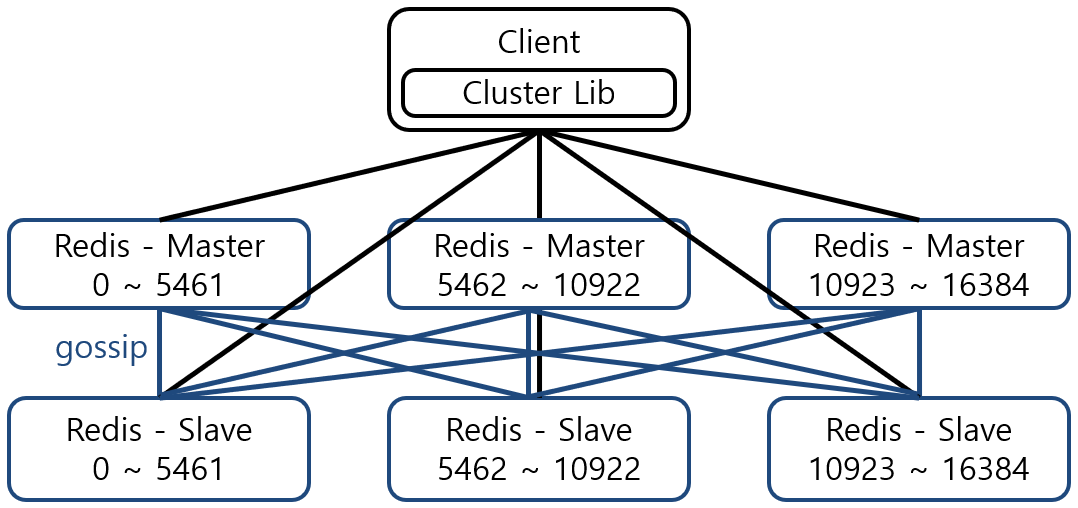
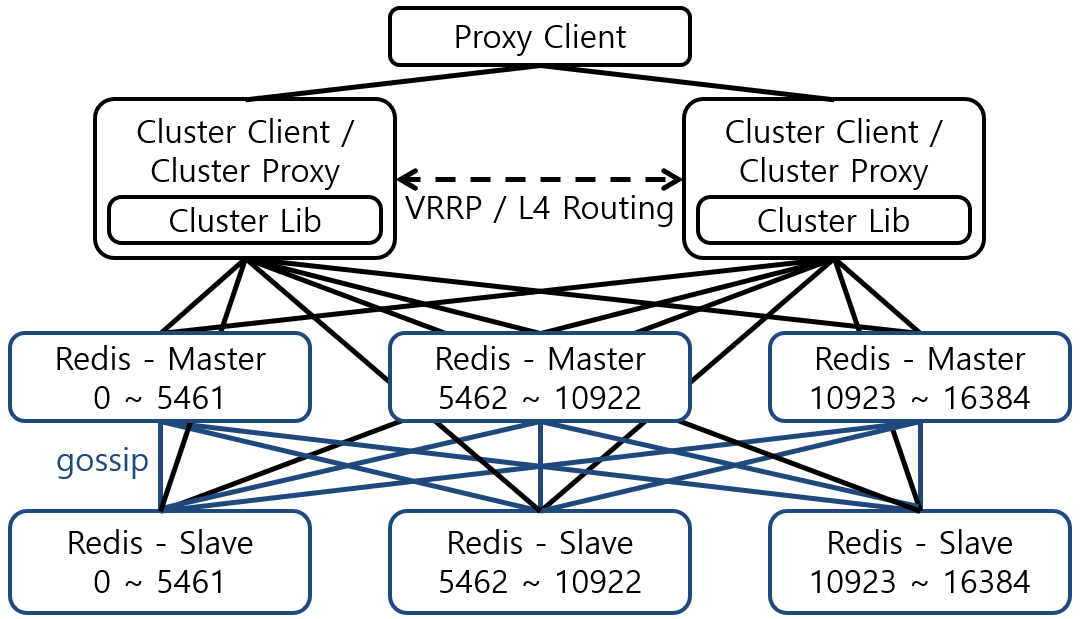
Update redis cluster

Changed region(s): [[0.0, 0.0, 1.0, 1.0]]

diff --git a/_docs/theory_analysis/Redis_Master_Slave_Cluster.md b/_docs/theory_analysis/Redis_Master_Slave_Cluster.md
@@ -1,33 +1,60 @@
 ---
-title: Redis Master-Slave, Cluster
+title: Redis Master-slave, Cluster
 category: Theory, Analysis
-date: 2019-02-06T12:00:00Z
-lastmod: 2019-02-06T12:00:00Z
+date: 2019-02-10T12:00:00Z
+lastmod: 2019-02-10T12:00:00Z
 comment: true
 adsense: true
 ---
 
-Redis Master-Slave 및 Redis Cluster를 분석한다.
+Redis Master-slave 및 Redis Cluster를 분석한다.
 
-### 1. Redis Master-Slave
+### 1. Redis Master-slave
 
-![]({{site.baseurl}}/images/theory_analysis/Redis_Master_Slave_Cluster/Redis_Master-Slave.PNG){: width="600px"}
+![]({{site.baseurl}}/images/theory_analysis/Redis_Master_Slave_Cluster/Redis_Master-slave.PNG){: width="600px"}
 
-Redis Master-Slave는 Redis에서 제공하는 가장 기본적인 Replication 및 HA (High Availabilty) 기법이다. 위의 그림은 Redis Master-Slave로 구성시 Architecture를 나타내고 있다. Redis의 Master-Slave 기법은 MySQL의 Master-Slave Replication 기법과 유사한점이 많다. 하나의 Master에 다수의 Slave가 붙을 수 있다. Master는 Read-Write Mode로 동작하고 Slave는 Read-Only Mode로 동작한다. Redis Client는 필요에 따라서 Master에 붙어 Write 동작을 수행하거나, 적절한 Master 또는 Slave에 붙어 Read 동작을 수행 할 수 있다.
+Redis Master-slave는 Redis에서 제공하는 가장 기본적인 Replication 기법이다. 위의 그림은 Redis Master-slave 구성시 Architecture를 나타내고 있다. Redis의 Master-slave 기법은 MySQL의 Master-slave Replication 기법과 유사한점이 많다. 하나의 Master에 다수의 Slave가 붙을 수 있다. Master는 Read-Write Mode로 동작하고 Slave는 Read-Only Mode로 동작한다. Client는 필요에 따라서 Master에 붙어 Write 동작을 수행하거나, 적절한 Master 또는 Slave에 붙어 Read 동작을 수행 할 수 있다.
 
-**Master-Slave 사이의 Replication은 Async 방식**을 이용한다. Master는 Data 변경시 변경 내용을 backlog에 기록한다. Slave는 Master에 접속하여 backlog의 내용을 바탕으로 Replication을 수행한다. Async 방식이기 때문에 Master에 저장된 Data가 Slave에는 잠깐동안 저장되지 않을 수 있다. 따라서 Redis Client (App)는 Slave에서 Data를 Read 할때 Async 특징을 반드시 고려해야한다.
+**Master-slave 사이의 Replication은 Async 방식**을 이용한다. Master는 Data 변경시 변경 내용을 backlog에 기록한다. Slave는 Master에 접속하여 backlog의 내용을 바탕으로 Replication을 수행한다. Async 방식이기 때문에 Master에 저장된 Data가 Slave에는 잠깐동안 저장되지 않을 수 있다. 따라서 Client (App)는 Slave에서 Data를 Read 할때 Async 특징을 반드시 고려해야한다.
 
-Master의 동작이 멈출경우 Slave는 Master에게 주기적으로 Connection을 요청하며 Master가 되살아 날때까지 대기한다. Master가 살아나면 Slave는 Replication을 수행하여 Master와 동기화를 맞춘다. 아니면 Redis 관리자는 Slave 중에서 하나를 수동으로 Master로 승격시키고, 나머지 Slave들을 새로운 Master로부터 Replication 하도록 설정 해야한다. Master의 동작이 멈출경우 Redis Client는 Slave를 통해서 Read 동작을 수행 할 수 있지만, Write 동작을 수행 할 수 없다. 따라서 Master의 Downtime은 Redis Cluster의 가용성을 떨어트린다. 이러한 가용성 문제를 해결을 도와주는 Daemon이 Sentinel이다.
+Master가 죽을경우 Slave는 Master에게 주기적으로 Connection을 요청하며 Master가 되살아 날때까지 대기한다. Master가 살아나면 Slave는 Replication을 수행하여 Master와 동기화를 맞춘다. Master의 복구가 힘든경우 Redis 관리자는 Slave 중에서 하나를 수동으로 Master로 승격시키고, 나머지 Slave들을 새로운 Master로부터 Replication 하도록 설정 해야한다. Master가 바뀐뒤에는 죽었던 Master는 새로운 Master의 Slave로 설정하여 이용해야 한다.
+
+#### 1.1. Sentinel
+
+Master의 동작이 멈출경우 Client는 Slave를 통해서 Read 동작을 수행 할 수 있지만, Write 동작을 수행 할 수 없다. 따라서 Master의 Downtime은 Redis Cluster의 가용성을 떨어트린다. 이러한 가용성 문제를 해결을 도와주는 App이 Sentinel이다. **Sentinel은 Master가 죽는지 감지하고 Master가 죽었을경우 Slave 중 하나를 Master로 승격시키고, 기존의 Master는 Slave로 강등시킨다.** Redis 관리자의 간섭없이 자동으로 이루어지기 때문에 Master의 Downtime을 최소화하여 HA (High Availabilty)를 가능하게 만든다.
+
+Sentinel은 일반적으로 홀수개로 구성하여 Split-brain을 방지한다. 위의 그림에서는 Sentinal을 Redis와 별도의 Node에 구성하여 이용하는 모습을 나타내고 있지만, Sentinel을 Redis와 동일한 Node에 구성하여 이용하여도 문제없다. Sentinel 설정에는 Quorum이란 설정값이 존재한다. Quorum은 특정 Redis에 장애 발생시 몇개의 Sentinel이 특정 Redis의 장애 발생을 감지해야 장애라고 판별하는지를 결정하는 기준값이다. 예를들어 Quorum 값을 2로 설정하였을 경우, 2개 이상의 Sentienl이 특정 Redis에 장애가 발생하였다고 판별해야 Sentinel은 해당 Redis에 대한 장애 대응을 수행한다.
+
+#### 1.2. HAProxy
+
+Redis Master-slave 구성시 Master는 RW Mode로 동작하고 Slave는 RO Mode로 동작하기 때문에 Client는 Master의 IP/Port, Slave의 IP/Port를 각각 알고, 필요에 따라 적절한 Master 또는 Slave에 붙어 동작을 수행해야 한다. 따라서 Master의 장애 발생시 Master가 교체되면 그에 따라 Client의 Redis 설정도 바뀌어야 한다. 하지만 Master가 교체될때 마다 Redis를 이용하는 모든 Client의 설정을 바꾸는 일은 쉬운일이 아니다. 이러한 문제를 해결하기 위해서 일반적으로 HAProxy를 이용한다.
+
+**Haproxy는 Client에게 Redis의 Master, Slave에 일정하게 접근 할 수 있는 End-point를 제공한다.** 위의 그림에서 Port X는 Master에게 접근 할 수 있는 Port를 나타내고 Port Y는 Slave에게 접근 할 수 있는 Port를 나타낸다. HAProxy는 tcp-check를 이용하여 주기적으로 각 Redis가 Master로 동작하는지 또는 Slave 동작하는지 파악하고 그에따라 동적으로 Routing Rule을 설정한다. 따라서 Master가 교체되어도 Haproxy는 일정한 End-point를 Client에게 제공 할 수 있다. HAProxy를 하나만 구성하면 HAProxy로 HAProxy가 죽을경우 SPOF(Single Point of Failure)가 발생하여 Redis의 HA를 방해한다. 따라서 L4 Load Balancer 및 VRRP를 이용하여 다수의 HAProxy를 하나의 HAProxy 처럼 보이도록 Client에게 제공해야 한다.
 
 ### 2. Redis Cluster
 
 ![]({{site.baseurl}}/images/theory_analysis/Redis_Master_Slave_Cluster/Redis_Cluster.PNG){: width="600px"}
 
+Redis Cluster는 Redis에서 제공하는 Replication 및 Sharding 기법이다. 위의 그림은 Redis Cluster 구성시 Architecture를 나타내고 있다. Cluster를 구성하는 각 Redis는 다른 모든 Redis들과 직접 연결하여 gossip Protocol을 통해 통신한다. gossip Protocol을 통해서 각 Redis는 Redis 상태 정보를 교환한다. gossip Protocl은 Cluster Client가 이용하는 Port번호보다 10000이 높은 번호를 Port로 이용한다. Cluster Client 가 이용하는 기본 Port 번호는 6379를 이용하기 때문에 gossip Protocol이 이용하는 기본 Port번호는 16379가 된다. Cluster Client 또한 Cluster를 구성하는 모든 Redis와 직접 연결하여 Data를 주고 받는다. 
+
+Redis Cluster는 Multi-master, Multi-slave 구조를 갖으며 각 Redis는 Master 또는 Slave로 동작한다. 각 Master는 **Hash Slot**이라는 Data 저장구역을 다른 Master와 나누어 소유한다. Hash Slot은 0부터 16384까지의 주소를 가지고 있다. 위의 그림은 각 Master가 Hash Slot을 3개로 균등하게 분활해서 구성한 모습을 나타내고 있다. Key-value Data가 이용할 Hash Slot은 Data의 Key를 Hashing한 결과값을 이용한다. Hashing은 CRC16 및 Moduler 연산자를 이용하여 Data가 각 Hash Slot에 균등하게 배분되도록 한다. 따라서 Data는 각 Master의 Hash Slot의 크기에 비례하여 Data를 저장하게 된다.
+
+각 Master에 할당한 Hash Slot은 Redis 관리자에 의해서 동적으로 변경이 가능하다. 따라서 동적으로 Master를 추가하거나 제거하는것도 가능하다. 각 Master는 다수의 Slave를 갖을 수 있다. 위의 그림에서는 각 Master가 하나의 Slave를 갖고 있는 모습을 나타내고 있다. **Master와 Slave사이의 Replication은 Redis Master-slave 구성과 동일하게 Async 방식으로 이루어진다.** 따라서 Slave도 동적으로 자유롭게 추가하거나 제거하는것이 가능하다.
+
+Cluster Client는 Master, Slave 또는 Master가 가지고 있는 Hash Slot에 관계없이 Cluster에 포함된 아무 Redis에게 Data/Write 요청을 보낼 수 있다. Redis는 자신이 처리 할 수 있는 요청은 직접 처리하고 Cluster Client에게 처리 결과를 전달한다. 만약 자신이 처리 할 수 없는 요청이라면 해당 요청을 처리할 수 있는 Redis의 정보를 Cluster Client에게 전달한다. Cluster Client는 Redis가 전달해준 다른 Redis에게 동일 요청을 다시 보내서 Data를 처리한다. 예를들어 Slave Redis에게 Write 요청을 보내면 Slave Redis는 해당 요청을 처리 할 수 있는 Master Redis의 정보를 Cluster Client에게 넘겨준다. 이러한 **요청 Redirection**으로 인해서 Cluster Client는 Redis Cluster 이용시 Redis Cluster를 지원하는 Library를 이용해야한다.
+
+Master Redis가 죽을경우 죽은 Master의 Slave Redis는 gossip Protocol을 통해서 Master의 죽음을 파악한뒤 스스로 Master로 승격하여 Master를 대신한다. 그 후 죽은 Master가 살아나서 동작하는 경우 스스로 Slave로 강등하여 동작한다. Master와 Slave사이의 Replication은 Async 방식으로 이루어지기 때문에 Master의 죽음은 Master와 Slave 사이의 Data 정합성을 깰 수 있다. 깨진 Data 정합성으로 인해서 Master와 Slave 사이의 Data 충돌이 발생하는 경우 무조건 **나중에 Master가 된 Data를 기준으로 정합성을 맞춘다.**
+
+#### 2.1. Cluster Proxy
+
+Redis Cluster의 Cluster Client는 Cluster를 구성하는 모든 Redis와 Network로 직접 연결되어 있어야 한다는 특징을 갖고 있다. 즉 Redis Cluster의 각 Redis는 Cluster Client를 위한 End-point를 반드시 하나이상 갖고 있어야 한다. 이러한 특징 때문에 Cluster를 구성하는 Redis의 개수 또는 Cluster Client의 개수가 늘어날수록 Network Connection은 기하급수적으로 늘어난다. 또한 Redis Master-slave의 Client에게 Master, Slave 2개의 End-point만을 제공하던 Network 환경에 Redis Cluster 구성을 힘들게하는 요인이 된다. 이러한 문제점들을 해결하기 위해서는 Cluster Proxy를 이용해야 한다.
+
+Cluster Proxy는 Proxy Client에게 일정한 End-point를 제공한다. Cluster Proxy에는 corvus, predixy 같은 Application이 있다. Cluster Proxy는 요청 Redirection 같은 Redis Cluster만을 위한 추가적인 동작이 필요하기 때문에 HAProxy같은 범용 Proxy를 Cluster Proxy로 이용하지 못한다. Redis Master-slave의 HAProxy 처럼 다수의 Cluster Proxy를 L4 Load Balancer 및 VRRP를 이용하여 Cluster Proxy의 HA를 보장하도록 구성하는 것이 좋다. 
+
 ### 3. 참조
 
 * [https://www.letmecompile.com/redis-cluster-sentinel-overview/](https://www.letmecompile.com/redis-cluster-sentinel-overview/)
-* Master-Slave - [https://redis.io/topics/replication](https://redis.io/topics/replication)
+* Master-slave - [https://redis.io/topics/replication](https://redis.io/topics/replication)
 * Sentinel - [https://redis.io/topics/sentinel](https://redis.io/topics/sentinel)
 * Cluster - [https://redis.io/topics/cluster-spec](https://redis.io/topics/cluster-spec)
 * Cluster - [http://redisgate.kr/redis/cluster/redis-cli-cluster.php](http://redisgate.kr/redis/cluster/redis-cli-cluster.php)
-
